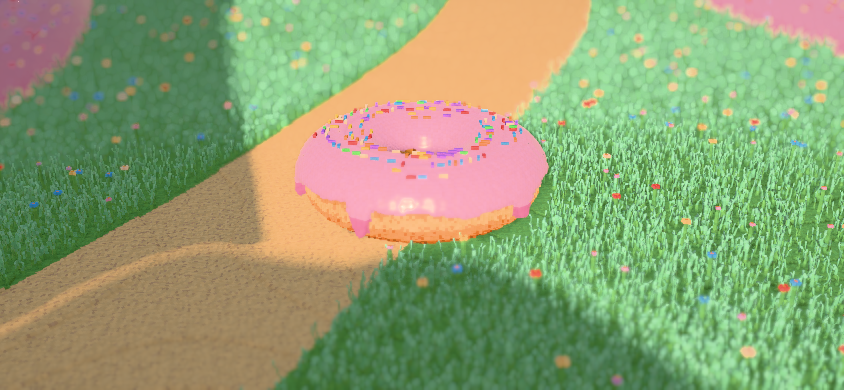
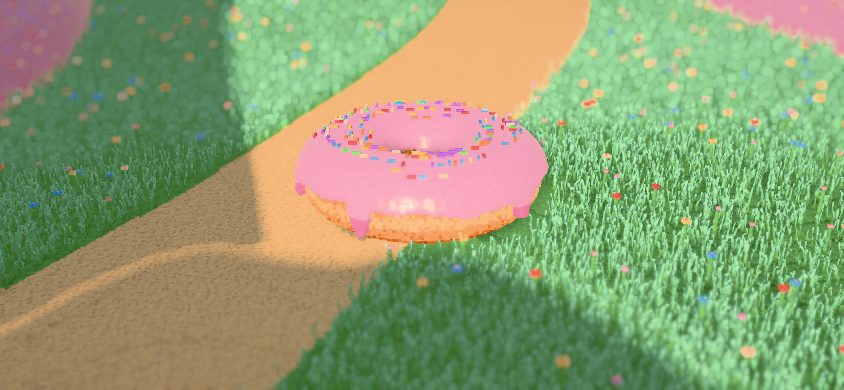
M3 gate iter 7: rebaseline M2 finals on GPU (option B), fix belly facing-sign bug, rounded crown, smile, rainbow drips, glow
- shots/M2/final re-captured on the GPU path from the accepted M2 commit 51cae65
  (user-approved option B); SwiftShader set kept in shots/M2/final-swiftshader
- Island wild donuts keep sprinkles (M2 parity)
- Glazey decal facing test used -gy, clipping the upward-facing upper belly;
  belly top now 43-44% of height. Rounded-box crown, upturned smile
- Rainbow drips match their band; thinner, golden classic glaze; studio glow
  and bloom so crystals carry a halo; tighter hero framing

diff --git a/src/art/models/donut.ts b/src/art/models/donut.ts
@@ -88,9 +88,9 @@ const LOOK: Record<DonutFlavor, FlavorLook> = {
   glazed: look({
     top: 'classicGlaze',
     side: 'classicGlaze',
-    drip: 0.065,
+    drip: 0.05,
     frost: 0.016,
-    line: 0.02,
+    line: 0.04,
   }),
   // RF-15: soft periwinkle glaze over a craggy, cracked old-fashioned ring.
   blueberry: look({
@@ -243,9 +243,22 @@ function perimeterAngle(flavor: DonutFlavor, x: number, z: number): number {
   return Math.atan2(z, (x * d.a) / (d.L + d.a));
 }
 
-export function buildDonut(flavor: DonutFlavor, seed = 0, voxel = DONUT_VOXEL): VoxelGrid {
+export interface DonutOptions {
+  /**
+   * Override the flavor's sprinkles. The island's wild chocolate donuts keep the
+   * sprinkled look of the M2 diorama; the library flavor is plain (ref 04).
+   */
+  sprinkles?: boolean;
+}
+
+export function buildDonut(
+  flavor: DonutFlavor,
+  seed = 0,
+  voxel = DONUT_VOXEL,
+  opts: DonutOptions = {},
+): VoxelGrid {
   const grid = new VoxelGrid();
-  const lk = LOOK[flavor];
+  const lk = { ...LOOK[flavor], sprinkles: opts.sprinkles ?? LOOK[flavor].sprinkles };
   const d = dims(flavor);
   const size = donutSize(voxel, flavor);
   const v = voxel;
@@ -263,10 +276,7 @@ export function buildDonut(flavor: DonutFlavor, seed = 0, voxel = DONUT_VOXEL): 
   // `bead` is the extra frosting thickness (voxels) at height py: each tongue
   // swells into a rounded bead just above its tip, so drips stand proud of the
   // dough instead of reading as flat painted tabs.
-  const drip = (
-    angle: number,
-    outer: boolean,
-  ): { line: number; bead: (py: number) => number; seg: number } => {
+  const drip = (angle: number, outer: boolean): { line: number; bead: (py: number) => number } => {
     const segs = outer ? lk.segs : Math.round(lk.segs * 0.6);
     // Drips run down the outside only; inside the hole they just clutter it.
     const t = ((angle / (Math.PI * 2) + 1) % 1) * segs;
@@ -283,7 +293,7 @@ export function buildDonut(flavor: DonutFlavor, seed = 0, voxel = DONUT_VOXEL): 
         : (0.5 + hash3(k, sd, 2, 3)) * lk.drip * s;
     const half = 0.2 + hash3(k, sd, 3, 3) * 0.2;
     const dx = Math.abs(f - 0.5) / half;
-    if (dx >= 1 || len === 0) return { line, bead: () => 0, seg: k };
+    if (dx >= 1 || len === 0) return { line, bead: () => 0 };
     // Tapered drop: full at the frosting edge, pinching toward a rounded tip.
     const tip = line - len / v;
     line -= (len * Math.pow(1 - dx * dx, 1.4)) / v;
@@ -291,7 +301,6 @@ export function buildDonut(flavor: DonutFlavor, seed = 0, voxel = DONUT_VOXEL): 
     const across = Math.max(0, 1 - dx / 0.55);
     return {
       line,
-      seg: k,
       bead: (py: number) => {
         const u = (py - (tip + r)) / r;
         return u > -1 && u < 1.6
@@ -373,7 +382,7 @@ export function buildDonut(flavor: DonutFlavor, seed = 0, voxel = DONUT_VOXEL): 
         if (py > dr.line) {
           const exposedTop = py > (d.b / v) * 0.72 || !inDough;
           if (!exposedTop && inDough) return doughColor(px, py, pz, outer, inDough, h);
-          return PALETTE_INDEX[toppingColor(flavor, lk, px, py, pz, d, v, py > 0, dr.seg, seed)];
+          return PALETTE_INDEX[toppingColor(flavor, lk, px, py, pz, d, v, py > 0, seed)];
         }
       }
       if (!inDough) return 0;
@@ -418,7 +427,6 @@ function toppingColor(
   d: Dims,
   v: number,
   top: boolean,
-  seg: number,
   seed: number,
 ): VoxelColorName {
   if (lk.topping === 'swirl') {
@@ -430,7 +438,8 @@ function toppingColor(
     return SWIRL[((Math.floor(t) % SWIRL.length) + SWIRL.length) % SWIRL.length] ?? lk.top;
   }
   if (lk.topping === 'rainbow') {
-    if (!top) return RAINBOW[(seg + seed) % RAINBOW.length] ?? lk.side;
+    // Drips take the color of the band they run from (the outer bands), so no
+    // stray-colored slabs hang under the red edge (ref 04 Ignore list).
     // Concentric bands across the tube, inner violet to outer red.
     // Even bands by angle around the tube's cross-section: violet lines the
     // hole, red the outer edge, and each band gets the same arc of icing.
@@ -451,7 +460,7 @@ function toppingColor(
     const t = -py / (d.b / v);
     const n = valueNoise3(px * 0.12, py * 0.12, pz * 0.12, seed + 4);
     // An even amber sheet on the crown, thinning golden down the slopes and drips.
-    return t + n * 0.15 > 0.3 ? 'classicGlazeThin' : 'classicGlaze';
+    return t + n * 0.15 > 0.12 ? 'classicGlazeThin' : 'classicGlaze';
   }
   return top ? lk.top : lk.side;
 }

diff --git a/src/art/models/glazey.ts b/src/art/models/glazey.ts
@@ -73,12 +73,18 @@ export function buildGlazey(belly = 0, expression: GlazeyExpression = 'happy'): 
   const rz = lerp(10, 17.5, t);
   const feetH = lerp(2.5, 1.2, t);
   const y0 = feetH + ry;
-  const pear = 0.13 * (1 - t);
+  const pear = 0.07 * (1 - t);
+  // The crown is a soft rounded box (sheet 03), not a gumdrop cone: above the
+  // middle the vertical term is raised to a higher power, flattening the top.
+  // It relaxes back to a plain sphere at belly 5 ("perfectly round").
+  const crown = lerp(3.2, 2, t);
   const body: Sdf = (x, y, z) => {
     const ny = Math.max(-1, Math.min(1, (y - y0) / ry));
     const w = rx * (1 - pear * ny);
     const d = rz * (1 - pear * 0.6 * ny);
-    const k = Math.hypot(x / w, (y - y0) / ry, z / d);
+    const vy = Math.abs(y - y0) / ry;
+    const ey = y > y0 ? Math.pow(vy, crown / 2) : vy;
+    const k = Math.hypot(x / w, ey, z / d);
     return (k - 1) * Math.min(w, ry, d);
   };
   // The belly pushes forward and down as Glazey fills up.
@@ -138,9 +144,9 @@ export function buildGlazey(belly = 0, expression: GlazeyExpression = 'happy'): 
     const gx = skin(x + e, y, z) - skin(x - e, y, z);
     const gy = skin(x, y + e, z) - skin(x, y - e, z);
     const gz = skin(x, y, z + e) - skin(x, y, z - e);
-    // Facing a little downward still counts: the camera looks down at Glazey,
-    // and the belly patch must stay a full oval over the round lower body.
-    return gz - 0.6 * gy > FACING * Math.hypot(gx, gy, gz) * 1.17;
+    // The gallery and gameplay cameras look down at Glazey, so a surface tilted
+    // up still faces the viewer (the upper belly), and one tilted down does not.
+    return gz + 0.3 * gy > FACING * Math.hypot(gx, gy, gz);
   };
   // Open a shallow socket under every face feature (shrunk a little, so the
   // decal's clean outline overlaps the body's voxel edge instead of exposing it).
@@ -283,7 +289,8 @@ function faceLayout(
       if (ell(mx, my, mouthRx, mouthRy, s) <= 1)
         return { color: my < -mouthRy * 0.45 ? 'tongueSoft' : 'mouthInside', lift: 0.4 };
     } else {
-      const top = 0.9 - 0.06 * mx * mx - s;
+      // An upturned smile: the top edge rises toward the corners.
+      const top = 0.2 + 0.11 * mx * mx - s;
       if (my < top && ell(mx, my, mouthRx, mouthRy, s) <= 1)
         return { color: my < -mouthRy * 0.4 ? 'tongueSoft' : 'mouthInside', lift: 0.4 };
     }

diff --git a/src/game/world/MeadowDiorama.ts b/src/game/world/MeadowDiorama.ts
@@ -298,6 +298,8 @@ export async function buildMeadowDiorama(
   const ds = donutSize(DONUT_VOXEL);
   const donutPivot = [ds[0] / 2, 0, ds[2] / 2] as const;
   const hs = donutSize(DONUT_HERO_VOXEL);
+  // The island's wild donuts all wear sprinkles (the M2 diorama look).
+  const ISLAND_DONUT = { sprinkles: true };
   const grassDonuts: [number, number, DonutFlavor][] = [
     [104, 0.36, 'strawberry'],
     [122, 0.68, 'chocolate'],
@@ -313,7 +315,7 @@ export async function buildMeadowDiorama(
     const p = hero ? HERO_DONUT : offPath(band(deg, u));
     spots[`donut${i}`] = at(p);
     placed.push({
-      grid: buildDonut(flavor, i + 1, hero ? DONUT_HERO_VOXEL : DONUT_VOXEL),
+      grid: buildDonut(flavor, i + 1, hero ? DONUT_HERO_VOXEL : DONUT_VOXEL, ISLAND_DONUT),
       voxel: hero ? DONUT_HERO_VOXEL : DONUT_VOXEL,
       pivot: hero ? [hs[0] / 2, 0, hs[2] / 2] : donutPivot,
       pos: at(p, -0.03),
@@ -333,7 +335,7 @@ export async function buildMeadowDiorama(
     milkContacts.push([p.x, p.z, 0.36]);
     // Floaters pass close to the low lagoon-edge lens: author them at close-up density.
     placed.push({
-      grid: buildDonut(flavor, i + 11, DONUT_HERO_VOXEL),
+      grid: buildDonut(flavor, i + 11, DONUT_HERO_VOXEL, ISLAND_DONUT),
       voxel: DONUT_HERO_VOXEL,
       pivot: [hs[0] / 2, 0, hs[2] / 2],
       pos: new Vector3(p.x, MILK_LEVEL - 0.075, p.z),

diff --git a/src/debug/scenes/studio.ts b/src/debug/scenes/studio.ts
@@ -201,8 +201,13 @@ export const STUDIO_TUNING: VoxelMaterialTuning = {
   ...DEFAULT_TUNING,
   hueHold: 0.25,
   wrap: 0.2,
-  // A brighter fresnel rim on translucent glazes (classic, jelly), art bible §5.
-  rim: 0.8,
+  // Sprinkles, crystals and the rainbow pop a little more on the cream cloth,
+  // enough to reach the bloom threshold and carry a soft halo (art bible §5).
+  emissive: 0.35,
+  // Lamps and crystals light up against the bright cloth, bright enough to
+  // pass the bloom threshold, so they carry a soft halo (the island's 2.4 is
+  // tuned for the darker meadow).
+  glow: 3.2,
 };
 
 /** Studio post: crisp (no DoF), contact AO scaled to small props, light grade. */
@@ -211,8 +216,8 @@ export const STUDIO_POST: PostSettings = {
   aoFalloff: 0.15,
   aoIntensity: 2.2,
   aoColor: LIGHT_PALETTE.studioOcclusion,
-  bloomThreshold: 1.2,
-  bloomIntensity: 0.4,
+  bloomThreshold: 1.7,
+  bloomIntensity: 0.9,
   grade: 0.1,
   vignette: 0.24,
 };

diff --git a/src/art/palette.ts b/src/art/palette.ts
@@ -165,8 +165,8 @@ export const VOXEL_PALETTE = {
   flossPink: entry('#F9C4DA', MAT.soft | MAT.smooth | MAT.candy, 0.03),
   flossBlue: entry('#C2DCF8', MAT.soft | MAT.smooth | MAT.candy, 0.03),
   // Rock candy crystals.
-  crystalLilac: entry('#CDB4F0', MAT.gloss | MAT.glow, 0.03),
-  crystalMint: entry('#B2EAD6', MAT.gloss | MAT.glow, 0.03),
+  crystalLilac: entry('#9A6AE8', MAT.gloss | MAT.glow, 0.03),
+  crystalMint: entry('#4FC99A', MAT.gloss | MAT.glow, 0.03),
   // Classic glaze where it runs thin and the golden dough shows through.
   classicGlazeThin: entry('#E8BB8A', MAT.gloss | MAT.translucent, 0.02),
   // Lighthouse lantern: relaxed twins of the deck, rail and glow band, so the

diff --git a/src/debug/scenes/gallery.ts b/src/debug/scenes/gallery.ts
@@ -118,7 +118,7 @@ export async function buildDonutGallery(
   const glow = new PointLight(new Color(LIGHT_PALETTE.lampLight), 0.6, 1.6, 2);
   glow.position.set(0, STAND_HEIGHT + 0.3, 0);
   studio.scene.add(glow);
-  const camera = studioCamera(aspect, 30, new Vector3(0, 3.3, 5.4), new Vector3(0, 0.1, -0.15));
+  const camera = studioCamera(aspect, 27, new Vector3(0, 3.3, 5.4), new Vector3(0, 0.02, -0.3));
   return { scene: studio.scene, camera, environment: studio.environment, post: STUDIO_POST };
 }
 

diff --git a/docs/PROGRESS.md b/docs/PROGRESS.md
@@ -1,11 +1,12 @@
 # Progress
 
-## M3 ESCALATED to the user after iter 6 (AGENTIC_LOOP §6): waiting for a decision
+## M3 in progress: resume here (user chose option B; gate iter 7)
 
-M3 is NOT done and the gate has NOT passed. The relay is paused for the user.
-Do not hand off and do not start iter 7 until the user picks an option below.
+M3 is NOT done. After the iter 6 escalation the user chose **option B**: rebaseline
+M2 on the GPU path, then continue iterations 7–8. Escalation (§6) is due after
+iter 8. A new thread resumes from the newest `reviews/M3-iter*.md`.
 
-- **Scores:**
+- **Scores so far:**
 
   | iter | r1 | r2 | gate mean | blockers |
   |---|---|---|---|---|
@@ -16,52 +17,38 @@ Do not hand off and do not start iter 7 until the user picks an option below.
   | 5 | 6.5 | 6.8 | 6.65 | 2 / 1 |
   | 6 | 6.55 | 6.8 | 6.68 | 0 / 1 |
 
-  The bar is 9.0. The mean has been flat at 6.65–6.80 for four iterations,
-  despite two structural changes: the studio lighting model at iter 4, and
-  asset re-authoring at iter 5.
-- **Why I escalated early** (before iter 8). Two of the three causes are
-  decisions only the user can make:
-  1. **The regression baseline depends on the renderer.** `shots/M2/final/` was
-     captured on SwiftShader (the cloud container). Every M3 render and review
-     since iter 2 runs on the Mac's GPU path (ANGLE Metal), whose specular peaks
-     differ. Since iter 4 each review has traded one M2 "regression" blocker for
-     another:
-     - the chimney hot spot (iter 4);
-     - the lost sprinkle glints (iter 5);
-     - glare on the lagoon chocolate donut (iter 6).
-
-     Iter 1's own code on this GPU already shows the lagoon glare (luma 250,
-     against the final's 240). A sweep of specular caps proved no single
-     setting meets both baseline frames on this GPU:
-
-     | cap | lagoon glare | glints |
-     |---|---|---|
-     | 1.6 | luma 243, pass | gone |
-     | 2.5 | luma 247 | gone |
-     | 4.0 | luma 249 | faint |
-     | none | luma 249 | present |
-
-     Changing the baseline is the user's decision.
-  2. **Scope conflict.** Both reviewers score motion (rubric 11) at 5 every
-     round and ask for squash/stretch and the belly wobble. PLAN §M3 defines a
-     turntable gallery, squash and stretch is M4, and the belly wobble is M5.
-  3. **Plateau.** The remaining open findings are large re-authoring jobs:
-     - the rainbow centerpiece;
-     - Glazey's skin and profile;
-     - a translucent classic glaze;
-     - emissive glow;
-     - the props: fence, pretzel trunk, hanging donuts.
-- **Options for the user:**
-  - **A. Accept M3 with follow-ups**, as with M2, and hand off to M4. The open
-    findings are in `reviews/M3-iter6*.md`.
-  - **B. Rebaseline, then continue iters 7–8.** Re-capture `shots/M2/final/` on
-    the GPU path and pin both reviewers to it, so regression checks compare like
-    with like. Optionally also rule motion out of scope for M3.
-  - **C. Allocate a structural rewrite beyond iter 8**: Glazey at a new
-    density or with a new skin approach, the rainbow rebuild, and the props
-    pass.
-- **State:** iter 6 is committed (`01fe42a`), and these reports are committed
-  with this note. The working tree is clean.
+- **Rebaseline (user-approved):** `shots/M2/final/` is now captured on the GPU
+  path (ANGLE Metal, Apple M4) from the accepted M2 commit `51cae65`, so the
+  baseline holds no M3 change. The old SwiftShader set is kept in
+  `shots/M2/final-swiftshader/`. Against the new baseline, HEAD shows the same
+  chimney (`250,221,192` vs `250,221,194`). The lagoon chocolate donut peaks at
+  luma 248 vs 243, with no visible glare halo.
+- **Iter 7 changes:**
+  - M2 parity: the island's wild donuts keep sprinkles (`DonutOptions`,
+    `ISLAND_DONUT`). The library chocolate became plain in M3, which changed
+    the M2 floating donut.
+  - Glazey:
+    - **Bug fixed:** the decal's facing test subtracted `0.6 · gy`, which
+      excluded *upward*-facing surfaces. The camera looks down, so this clipped
+      the belly's top into the flat, low crescent both reviewers flagged for
+      four rounds. It is now `gz + 0.3 · gy`. The belly top reaches 43–44 % of
+      body height (it was about 31 %).
+    - The crown is a soft rounded box (raised power on the upper vertical
+      term) instead of a gumdrop cone. It relaxes to a sphere at belly 5.
+    - The pear taper is halved.
+    - The smile is upturned: its top edge rises toward the corners.
+  - Rainbow: the drips take the color of their own band (no stray-colored
+    slabs, ref 04 Ignore list), and they are shorter.
+  - Classic glaze: thin golden glaze from 12 % below the waist line, and the
+    drip line is raised, so more dough shows. The cool cling-film rim (0.8)
+    is reverted.
+  - Glow: studio `glow` 3.2 and `emissive` 0.35, bloom threshold 1.7 at
+    intensity 0.9, and deeper crystal colors (saturation 0.37 with a halo).
+    The cloth self-glow stays at 0.3; 0.45 with a lower threshold bloomed the
+    whole cloth pink.
+  - Hero camera: FOV 27, aimed lower, so there is less empty cloth on top.
+- **Motion scope:** the user has not yet ruled on motion (rubric 11) for M3.
+  It was asked before the iter 7 reviews.
 
 - **Iter 6 changes (the iter 5 blockers, at their root causes):**
   - **Grey backdrop wedge**, flagged by both reviewers. I had misjudged the
